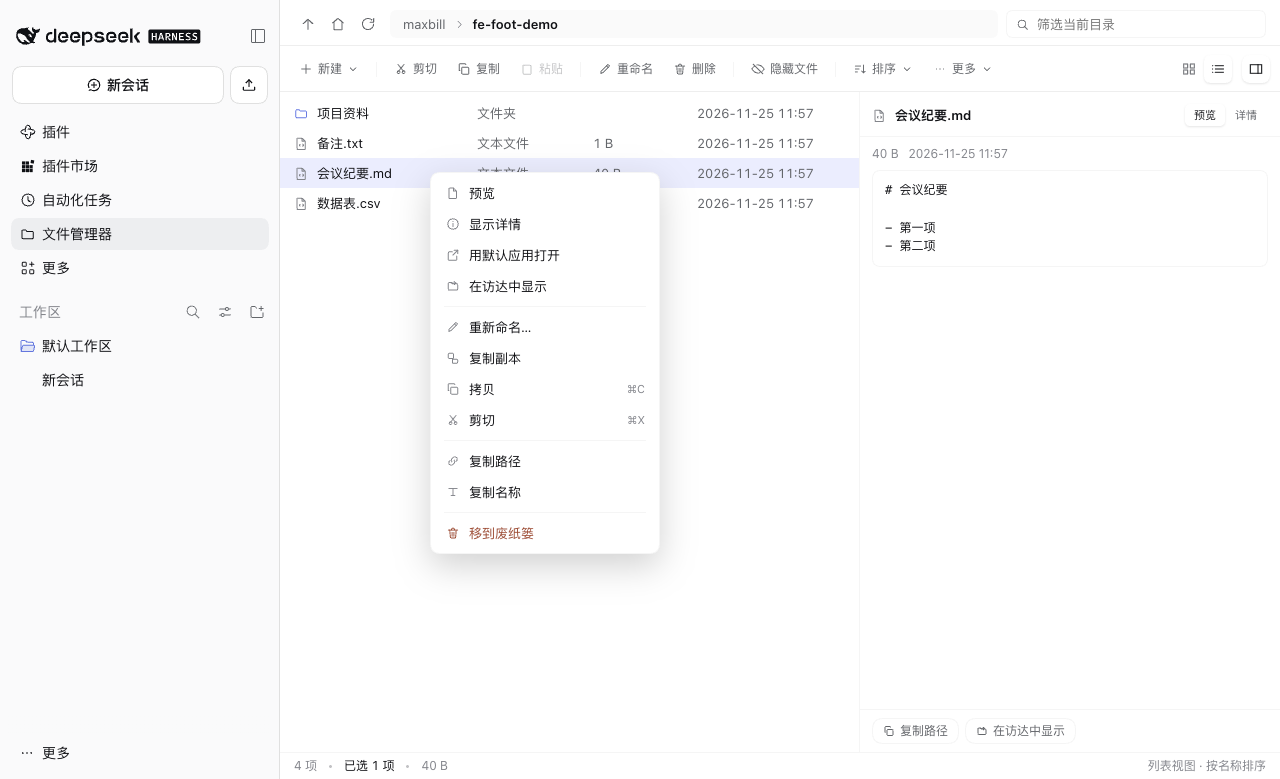
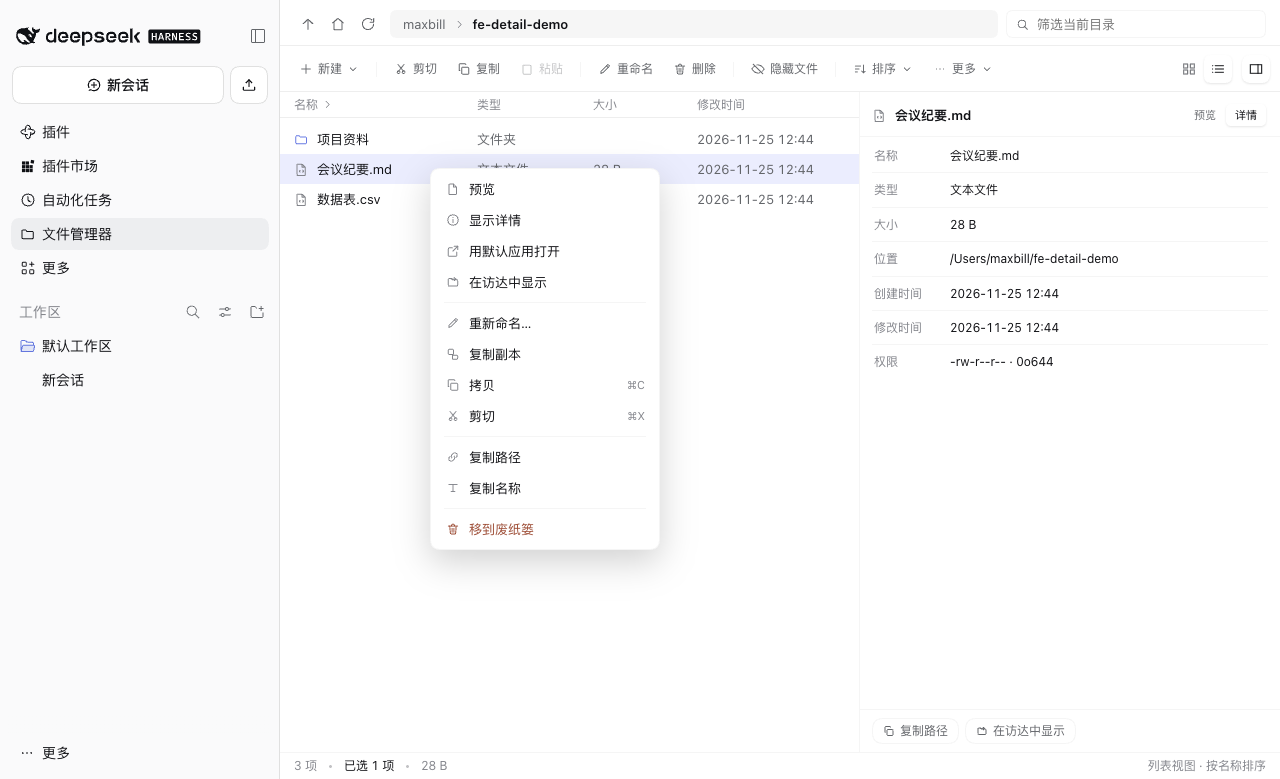
feat: column labels back above the listing
I removed that row on request in 0.8.2; it turns out the labels earn their
26px after all, so they return - but only in the list view, where columns
exist.

- 名称 / 类型 / 大小 / 修改时间, with the active sort carrying a chevron and
  every label clickable again (the toolbar's 排序 menu keeps working)
- the row uses the same hairline rule as the toolbar instead of a solid border
- icons view stays bare: no labels, no sort bar
- header and footer already name the entry, so the panel is labelled at every
  edge again

diff --git a/lib/client.js b/lib/client.js
@@ -137,6 +137,18 @@ window.__ModuleLoader__.load({
 .dfx-popup { min-width: 190px; }
 .dfx-body { display: flex; flex: 1 1 auto; min-height: 0; }
 .dfx-listpane { display: flex; flex-direction: column; flex: 1 1 auto; min-width: 0; min-height: 0; }
+.dfx-head {
+  display: grid; grid-template-columns: minmax(0, 1fr) 104px 92px 148px; align-items: center; gap: 12px;
+  height: 26px; padding: 0 14px; flex: 0 0 auto; color: var(--dsw-alias-label-tertiary, #8f8f8f); font-size: 12px;
+  box-shadow: inset 0 -1px 0 var(--dfx-rule, rgba(127, 127, 127, .13));
+}
+.dfx-headcell {
+  display: inline-flex; align-items: center; gap: 4px; border: 0; background: transparent; padding: 0;
+  font: inherit; color: inherit; cursor: pointer; text-align: left;
+}
+.dfx-headcell:hover { color: var(--dsw-alias-label-primary, #1b1b1b); }
+.dfx-headcell--static { cursor: default; }
+.dfx-headcell--static:hover { color: inherit; }
 .dfx-rows { flex: 1 1 auto; min-height: 0; overflow: auto; padding: 6px 0 10px; outline: none; }
 .dfx-row {
   display: grid; grid-template-columns: minmax(0, 1fr) 92px 148px; align-items: center; gap: 12px;
@@ -1443,6 +1455,15 @@ window.__ModuleLoader__.load({
         }
       }
 
+      /** One clickable column label in the list header. */
+      var headCell = function (key, label) {
+        return h("button", {
+          type: "button",
+          className: "dfx-headcell",
+          onClick: function () { setSort(key); },
+        }, label, sort === key ? glyph("chevron", 11) : null);
+      };
+
       var body = null;
       if (status === "error") {
         body = h("div", { className: "dfx-notice dfx-notice--error" }, "读取失败：" + (error || "未知错误"));
@@ -1585,11 +1606,12 @@ window.__ModuleLoader__.load({
             inner = h("div", { className: "dfx-empty" }, "二进制文件，不支持预览");
           }
         }
+        var paneEntry = preview && preview.entry ? preview.entry : selected;
         previewPane = h("div", { className: "dfx-preview" },
-          paneHeader(preview && preview.entry ? preview.entry : null),
+          paneHeader(paneEntry),
           meta,
           h("div", { className: "dfx-preview-body" }, inner),
-          paneFooter(preview && preview.entry ? preview.entry : null));
+          paneFooter(paneEntry));
       }
 
       var menuNode = null;
@@ -1812,6 +1834,11 @@ window.__ModuleLoader__.load({
           }, glyph("pane", 16))),
         h("div", { className: "dfx-body" },
           h("div", { className: "dfx-listpane" },
+            view === "icons" ? null : h("div", { className: "dfx-head" },
+              headCell("name", "名称"),
+              h("span", { className: "dfx-headcell dfx-headcell--static" }, "类型"),
+              headCell("size", "大小"),
+              headCell("mtime", "修改时间")),
 
             h("div", {
               className: "dfx-rows" + (view === "icons" ? " dfx-rows--grid" : ""),

diff --git a/README.md b/README.md
@@ -19,7 +19,7 @@ Repository: <https://github.com/MaxBill/dsh-file-explorer> · Developer: [MaxBil
 - **Left sidebar entry** — registered in `sidebar.panellist` with a folder glyph; the same id addresses the panel registered in the `main` keyed slot.
 - **Browsing** — breadcrumbs, up, home, refresh; double-click a folder to enter it.
 - **Address bar** — the tinted breadcrumb strip doubles as a path field: double-click it (or press `⌘L`), type an absolute, relative or `~` path and press Enter. `Esc` cancels, and a path outside the home root is refused.
-- **Filter and sort** — live name filter; the toolbar's 排序 menu sorts by name, size or modified time, with folders always first.
+- **Filter and sort** — live name filter; the list carries 名称 / 类型 / 大小 / 修改时间 column labels (the active one shows an arrow and any label can be clicked), and the toolbar's 排序 menu does the same, with folders always first.
 - **View modes** — the two icons at the far right of the toolbar switch **icons / list** (⌘1 icons, ⌘2 list, Ctrl on Windows). **Icons is the default**: the folder lays out as a grid. The list shows name, type, size and modified time in one row. The choice is remembered for the next session.
 - **Hidden files** — dotfiles are hidden by default; the 隐藏文件 button in the toolbar shows them.
 - **Status bar** — item count, selection size and clipboard on the left; the current view mode and sort key on the right.

diff --git a/README.zh.md b/README.zh.md
@@ -19,7 +19,7 @@
 - **左侧栏入口**：注册在 `sidebar.panellist`，图标为文件夹；同一 id 打开 `main` 面板。
 - **目录浏览**：面包屑导航、上一级、回到主目录、刷新；双击文件夹进入。
 - **地址栏**：面包屑外面的浅色输入条，**双击**（或 `⌘L`）变成可编辑路径，回车跳转；支持绝对路径、相对路径、`~` 和 `..`，`Esc` 取消，越出主目录会被拒绝。
-- **筛选与排序**：按名称实时筛选；用工具栏的「排序」菜单按名称 / 大小 / 修改时间排序，文件夹恒在前。
+- **筛选与排序**：按名称实时筛选；列表上方有 **名称 / 类型 / 大小 / 修改时间** 列头（当前排序列带箭头，点列头即可切换），也可以走工具栏的「排序」菜单，文件夹恒在前。
 - **显示视图**：工具栏最右侧两个图标切换 **图标 / 列表**（`⌘1` 图标、`⌘2` 列表，Windows 上是 `Ctrl`）。**图标视图是默认**，文件夹以图标网格铺开；列表视图一行给全 **名称 / 类型 / 大小 / 修改时间**。选择会记住，下次打开还是上次的视图。
 - **隐藏文件开关**：默认隐藏 `.dotfile`，工具栏「隐藏文件」一键显示。
 - **状态栏**：左侧是条目数、已选数量与总大小、剪贴板内容；右侧显示当前视图与排序方式，开启隐藏文件时也会提示。
